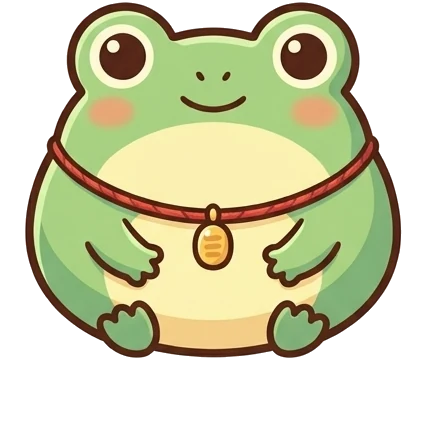
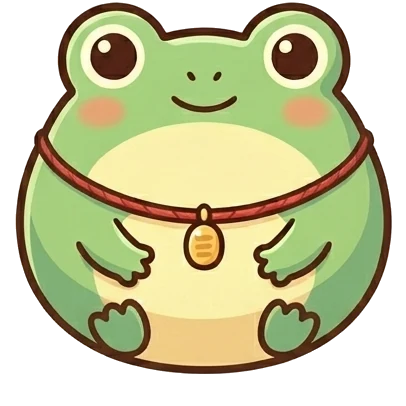
feat: the rounder frog, the owner's second sheet

diff --git a/src/config/frogSpriteData.ts b/src/config/frogSpriteData.ts
@@ -8,27 +8,27 @@ export const FROG_SPRITE_DATA: FrogSprites = {
   poses: [
     {
       file: 'frog-calm.webp',
-      side: 426,
-      radius: 181.63,
-      color: '#e0ad76',
+      side: 406,
+      radius: 183.24,
+      color: '#a3cd79',
     },
     {
       file: 'frog-open.webp',
-      side: 426,
-      radius: 181.54,
-      color: '#c8b976',
+      side: 406,
+      radius: 183.08,
+      color: '#d1b47c',
     },
     {
       file: 'frog-gulp.webp',
       side: 400,
-      radius: 184.98,
-      color: '#d3b776',
+      radius: 185.02,
+      color: '#a2cb7d',
     },
     {
       file: 'frog-sleepy.webp',
-      side: 418,
-      radius: 181.01,
-      color: '#daad74',
+      side: 414,
+      radius: 180.86,
+      color: '#e2a670',
     },
   ],
   band: {
